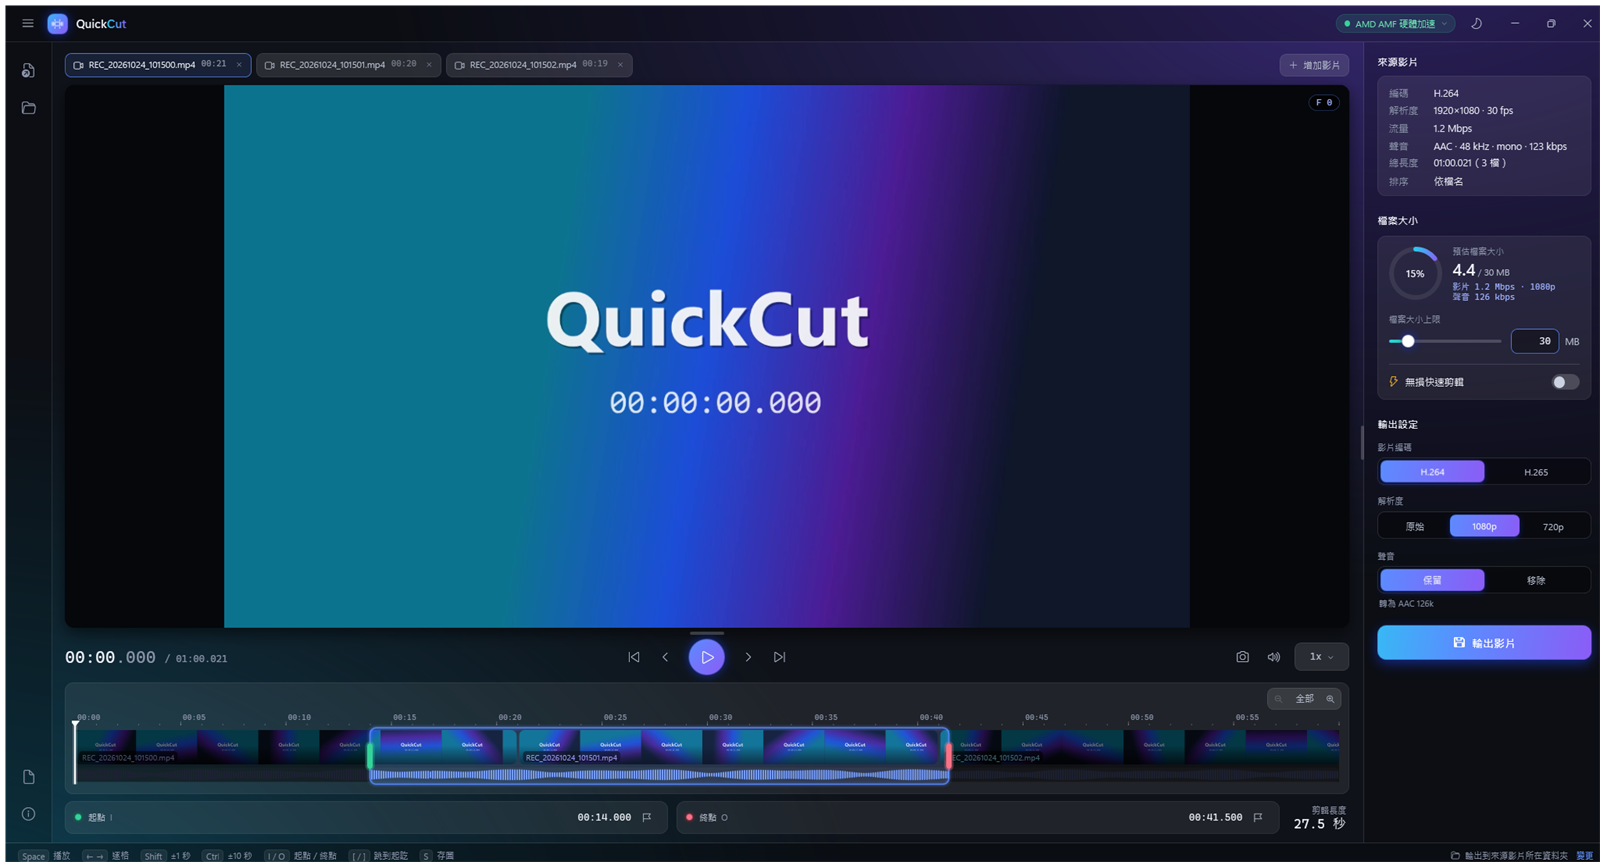
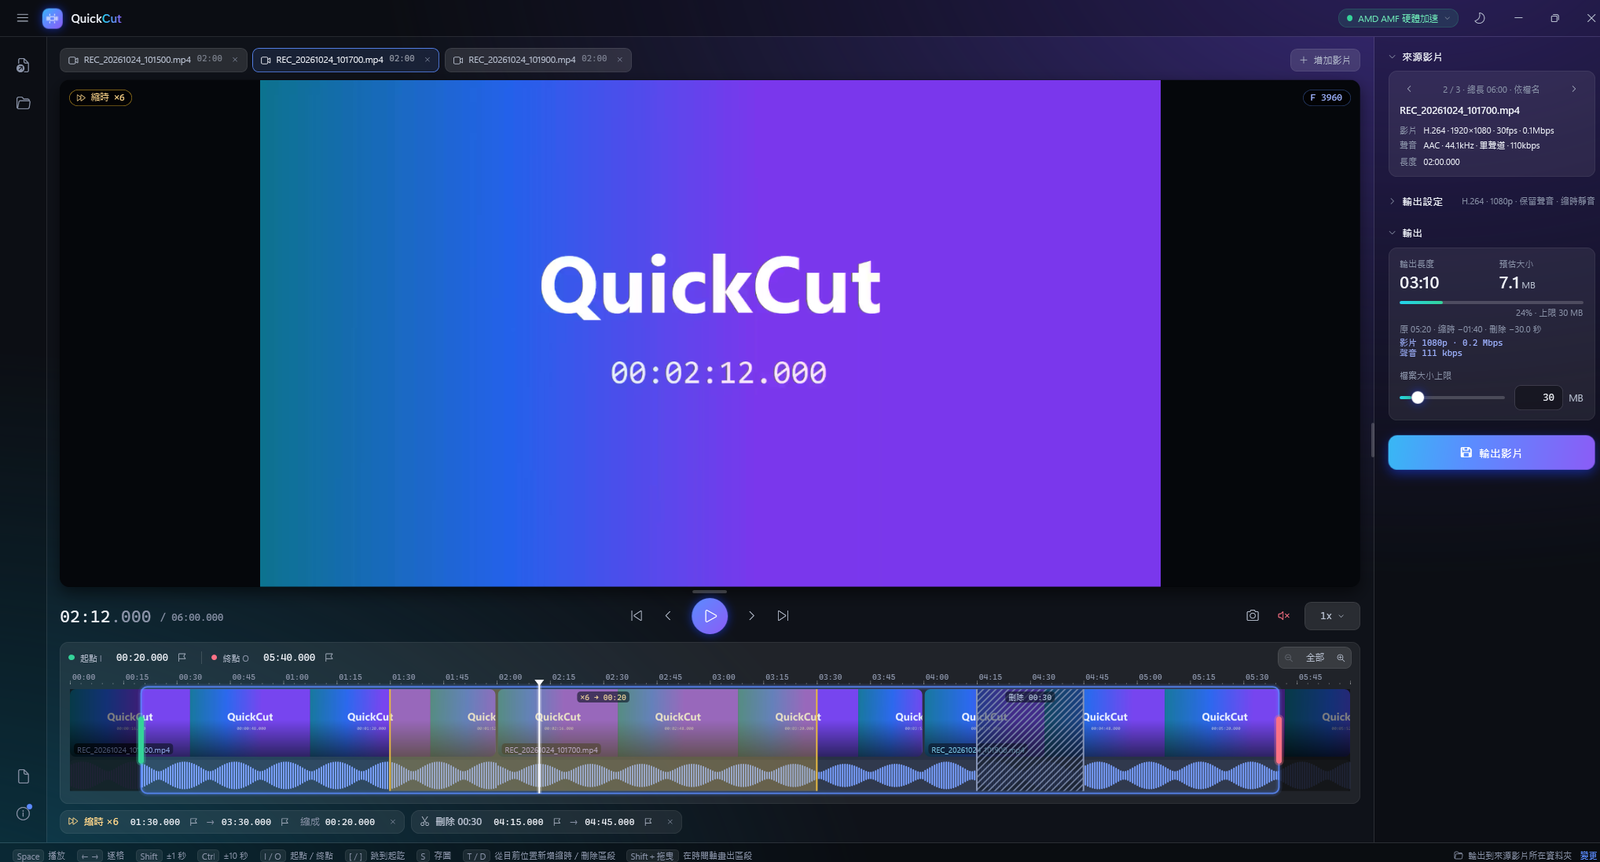
更新產品首頁與截圖：加入縮時與刪除區段
- 首頁新增「縮時與刪除區段」功能卡（標示 v1.1 新功能），快捷鍵表改為 T／D、Shift＋拖曳、Alt＋拖曳，移除時間軸右鍵
- 重新拍攝深色／淺色主畫面截圖，示範縮時與刪除區段，並更新社群預覽圖

diff --git a/docs/index.html b/docs/index.html
@@ -4,7 +4,7 @@
 <meta charset="utf-8">
 <meta name="viewport" content="width=device-width, initial-scale=1">
 <title>QuickCut 影片快速剪輯</title>
-<meta name="description" content="QuickCut：選好起訖點、指定檔案大小，一鍵輸出。Windows 免安裝的快速影片剪輯工具，支援多段影片接續剪輯與顯示卡硬體編碼。">
+<meta name="description" content="QuickCut：選好起訖點、指定檔案大小，一鍵輸出。Windows 免安裝的快速影片剪輯工具，支援多段影片接續剪輯、縮時與刪除區段、顯示卡硬體編碼。">
 <meta property="og:title" content="QuickCut 影片快速剪輯">
 <meta property="og:description" content="選起訖點、指定檔案大小，一鍵輸出。Windows 10 / 11 免安裝。">
 <meta property="og:image" content="https://coolalec.github.io/QuickCut/images/social-preview.png">
@@ -95,6 +95,10 @@
   .card p { margin: 0; color: var(--text-2); font-size: 15px; }
   .ico { width: 40px; height: 40px; border-radius: 11px; display: grid; place-items: center; color: #fff; background: linear-gradient(135deg, #22d3ee -25%, #5b8cff 40%, #8b5cf6); box-shadow: 0 6px 18px rgba(91, 140, 255, .35); }
   .ico svg { width: 21px; height: 21px; }
+  .card.wide { grid-column: 1 / -1; display: grid; grid-template-columns: auto 1fr; gap: 0 18px; align-items: center; }
+  .card.wide .ico { grid-row: span 2; }
+  .card.wide h3 { margin: 0 0 4px; }
+  .badge { margin-left: 8px; padding: 1px 8px; border-radius: 999px; font-size: 12px; font-weight: 600; vertical-align: 2px; color: #fff; background: linear-gradient(120deg, #f59e0b, #f97316); }
 
   table { width: 100%; border-collapse: collapse; font-size: 15px; }
   .keys { border: 1px solid var(--line); border-radius: 14px; overflow: hidden; background: var(--panel); }
@@ -159,7 +163,7 @@
       <div class="shot">
         <picture>
           <source srcset="images/screenshot-dark.png" media="(prefers-color-scheme: dark)">
-          <img src="images/screenshot-light.png" width="1600" height="862" alt="QuickCut 主畫面：上方是三個分段檔，中間是預覽，下方時間軸已選取 14 秒到 41.5 秒，右側是檔案大小與輸出設定">
+          <img src="images/screenshot-light.png" width="1600" height="862" alt="QuickCut 主畫面：上方是三個分段檔，中間是預覽，下方時間軸選取 0:20 到 5:40，其中 1:30 到 3:30 縮成 20 秒、4:15 到 4:45 刪除，右側是來源影片資訊與輸出長度、預估大小">
         </picture>
       </div>
     </div>
@@ -170,6 +174,11 @@
       <h2>功能</h2>
       <p class="lead">不用學剪輯軟體，從開檔到輸出只要幾個步驟。</p>
       <div class="grid">
+        <div class="card wide">
+          <div class="ico"><svg viewBox="0 0 24 24" fill="none" stroke="currentColor" stroke-width="2" stroke-linecap="round" stroke-linejoin="round"><polygon points="3 5 12 12 3 19 3 5"/><polygon points="12 5 21 12 12 19 12 5"/></svg></div>
+          <h3>縮時與刪除區段<span class="badge">v1.1 新功能</span></h3>
+          <p>把冗長的一段加速成指定長度（例如 25 分鐘縮成 2 分鐘），或整段刪掉，其餘照常播放；在時間軸上直接拖曳調整，輸出長度即時顯示。</p>
+        </div>
         <div class="card">
           <div class="ico"><svg viewBox="0 0 24 24" fill="none" stroke="currentColor" stroke-width="2" stroke-linecap="round" stroke-linejoin="round"><rect x="2" y="6" width="20" height="12" rx="2"/><path d="M8 6v12M16 6v12"/></svg></div>
           <h3>多段檔接成一條時間軸</h3>
@@ -178,7 +187,7 @@
         <div class="card">
           <div class="ico"><svg viewBox="0 0 24 24" fill="none" stroke="currentColor" stroke-width="2" stroke-linecap="round" stroke-linejoin="round"><path d="M21 15V6a2 2 0 0 0-2-2H5a2 2 0 0 0-2 2v12a2 2 0 0 0 2 2h9"/><path d="M17 18h6M20 15v6"/><path d="M8 9h8M8 13h5"/></svg></div>
           <h3>指定檔案大小</h3>
-          <p>設定大小上限（例如上傳網站限制的 30 MB），自動計算流量；硬體編碼超出時會自動降流量重編。</p>
+          <p>設定大小上限（例如上傳網站限制的 30 MB），依輸出長度自動計算流量；硬體編碼超出時會自動降流量重編。</p>
         </div>
         <div class="card">
           <div class="ico"><svg viewBox="0 0 24 24" fill="none" stroke="currentColor" stroke-width="2" stroke-linecap="round" stroke-linejoin="round"><rect x="4" y="4" width="16" height="16" rx="2"/><rect x="9" y="9" width="6" height="6"/><path d="M9 1v3M15 1v3M9 20v3M15 20v3M20 9h3M20 14h3M1 9h3M1 14h3"/></svg></div>
@@ -193,7 +202,7 @@
         <div class="card">
           <div class="ico"><svg viewBox="0 0 24 24" fill="none" stroke="currentColor" stroke-width="2" stroke-linecap="round" stroke-linejoin="round"><path d="M13 2 3 14h9l-1 8 10-12h-9l1-8z"/></svg></div>
           <h3>無損快速剪輯</h3>
-          <p>不重新編碼、保留原始畫質與解析度，幾秒內完成；起點會對齊關鍵影格並顯示實際起點。</p>
+          <p>不重新編碼、保留原始畫質與解析度，幾秒內完成；起點會對齊關鍵影格並顯示實際起點。也能搭配刪除區段使用。</p>
         </div>
         <div class="card">
           <div class="ico"><svg viewBox="0 0 24 24" fill="none" stroke="currentColor" stroke-width="2" stroke-linecap="round" stroke-linejoin="round"><rect x="7" y="2" width="10" height="20" rx="2"/><path d="M11 18h2"/></svg></div>
@@ -219,7 +228,9 @@
           <tr><td><kbd>S</kbd></td><td>目前畫面存成圖片</td></tr>
           <tr><td><kbd>M</kbd></td><td>預覽聲音開／關</td></tr>
           <tr><td><kbd>+</kbd> <kbd>-</kbd> <kbd>\</kbd></td><td>放大／縮小時間軸／顯示全部</td></tr>
-          <tr><td>時間軸按右鍵</td><td>把較近的起點或終點移到該處</td></tr>
+          <tr><td><kbd>T</kbd> / <kbd>D</kbd></td><td>從目前位置新增縮時／刪除區段</td></tr>
+          <tr><td><kbd>Shift</kbd> + 拖曳時間軸</td><td>畫出新區段</td></tr>
+          <tr><td><kbd>Alt</kbd> + 拖曳色帶</td><td>整段移動區段</td></tr>
           <tr><td><kbd>Ctrl</kbd> + <kbd>O</kbd> / <kbd>Ctrl</kbd> + <kbd>S</kbd></td><td>開啟影片／輸出</td></tr>
         </table>
       </div>
